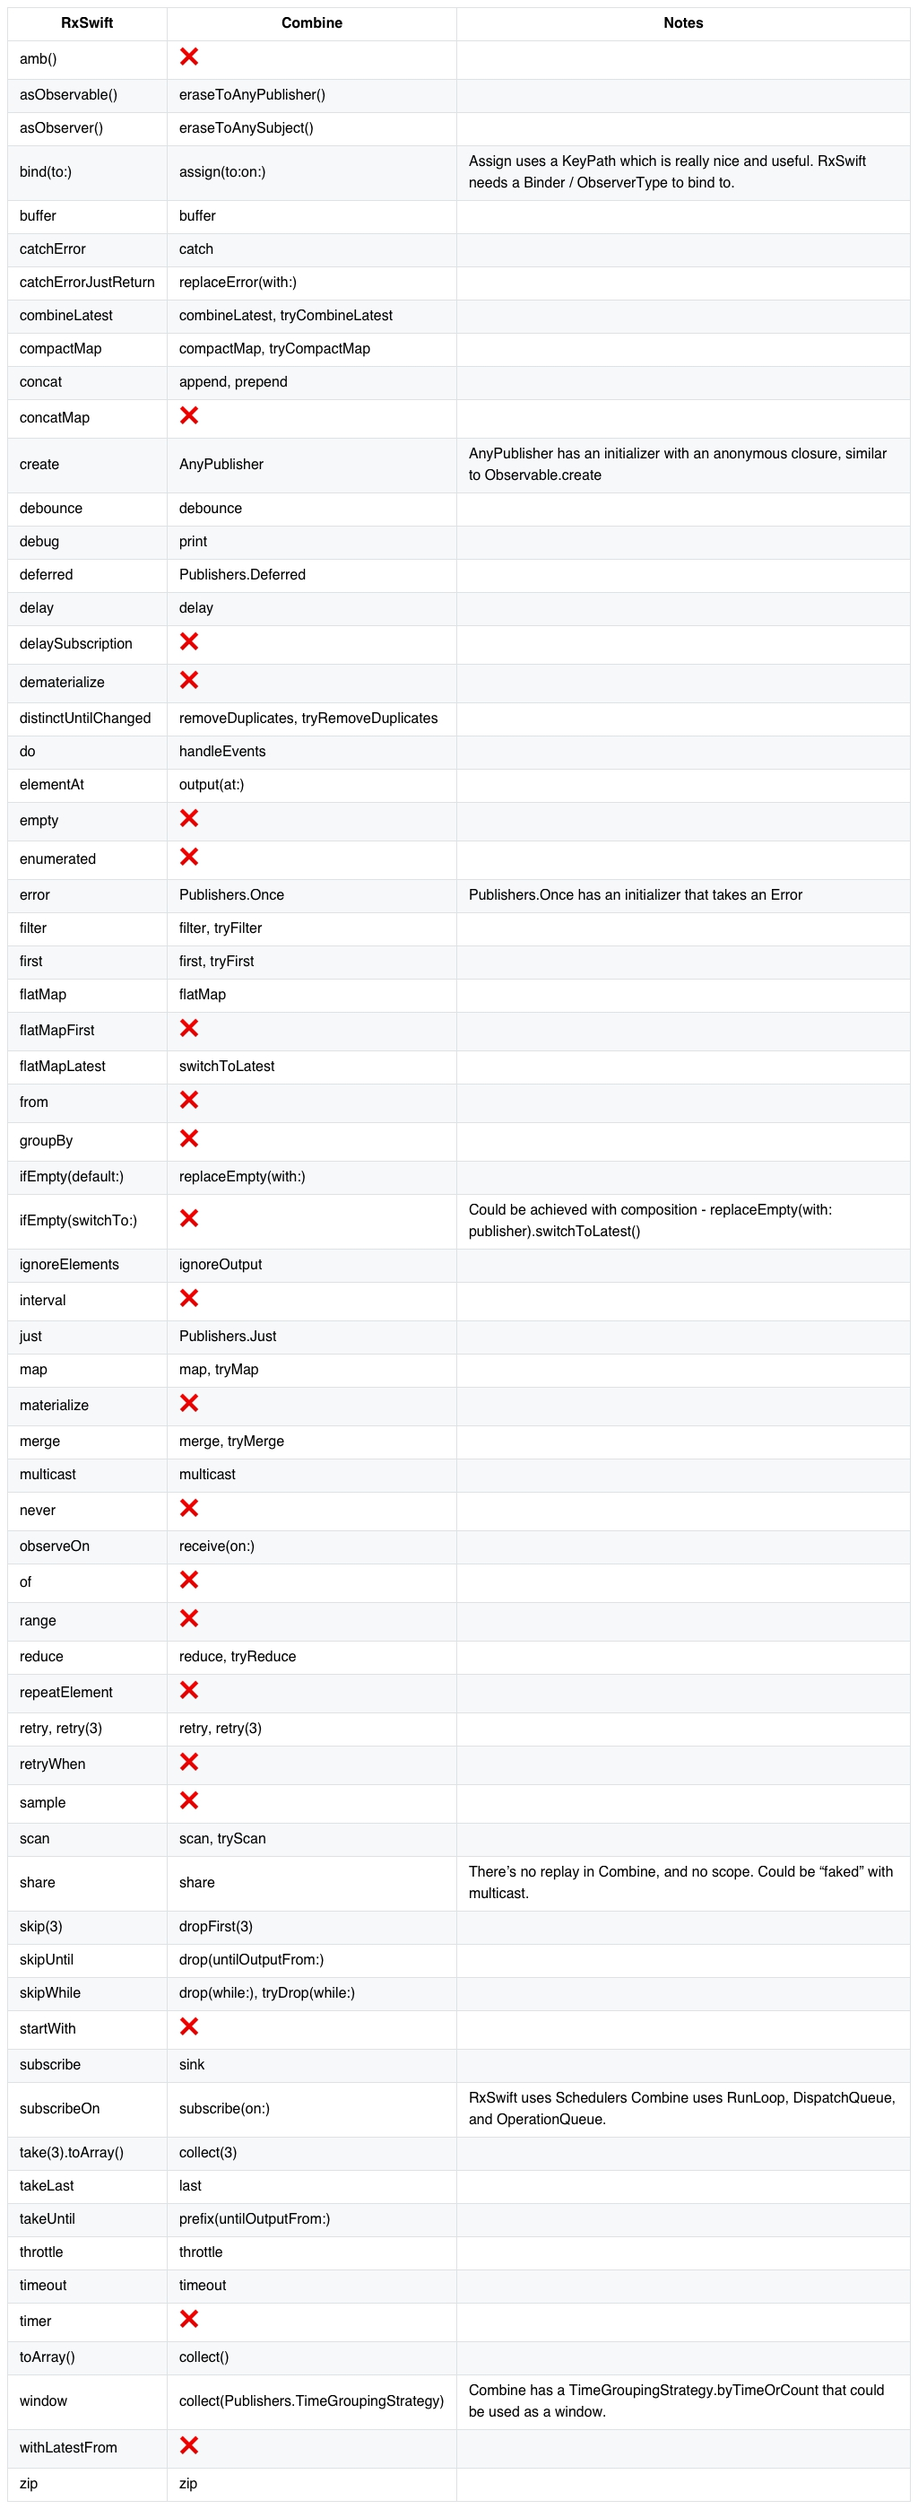
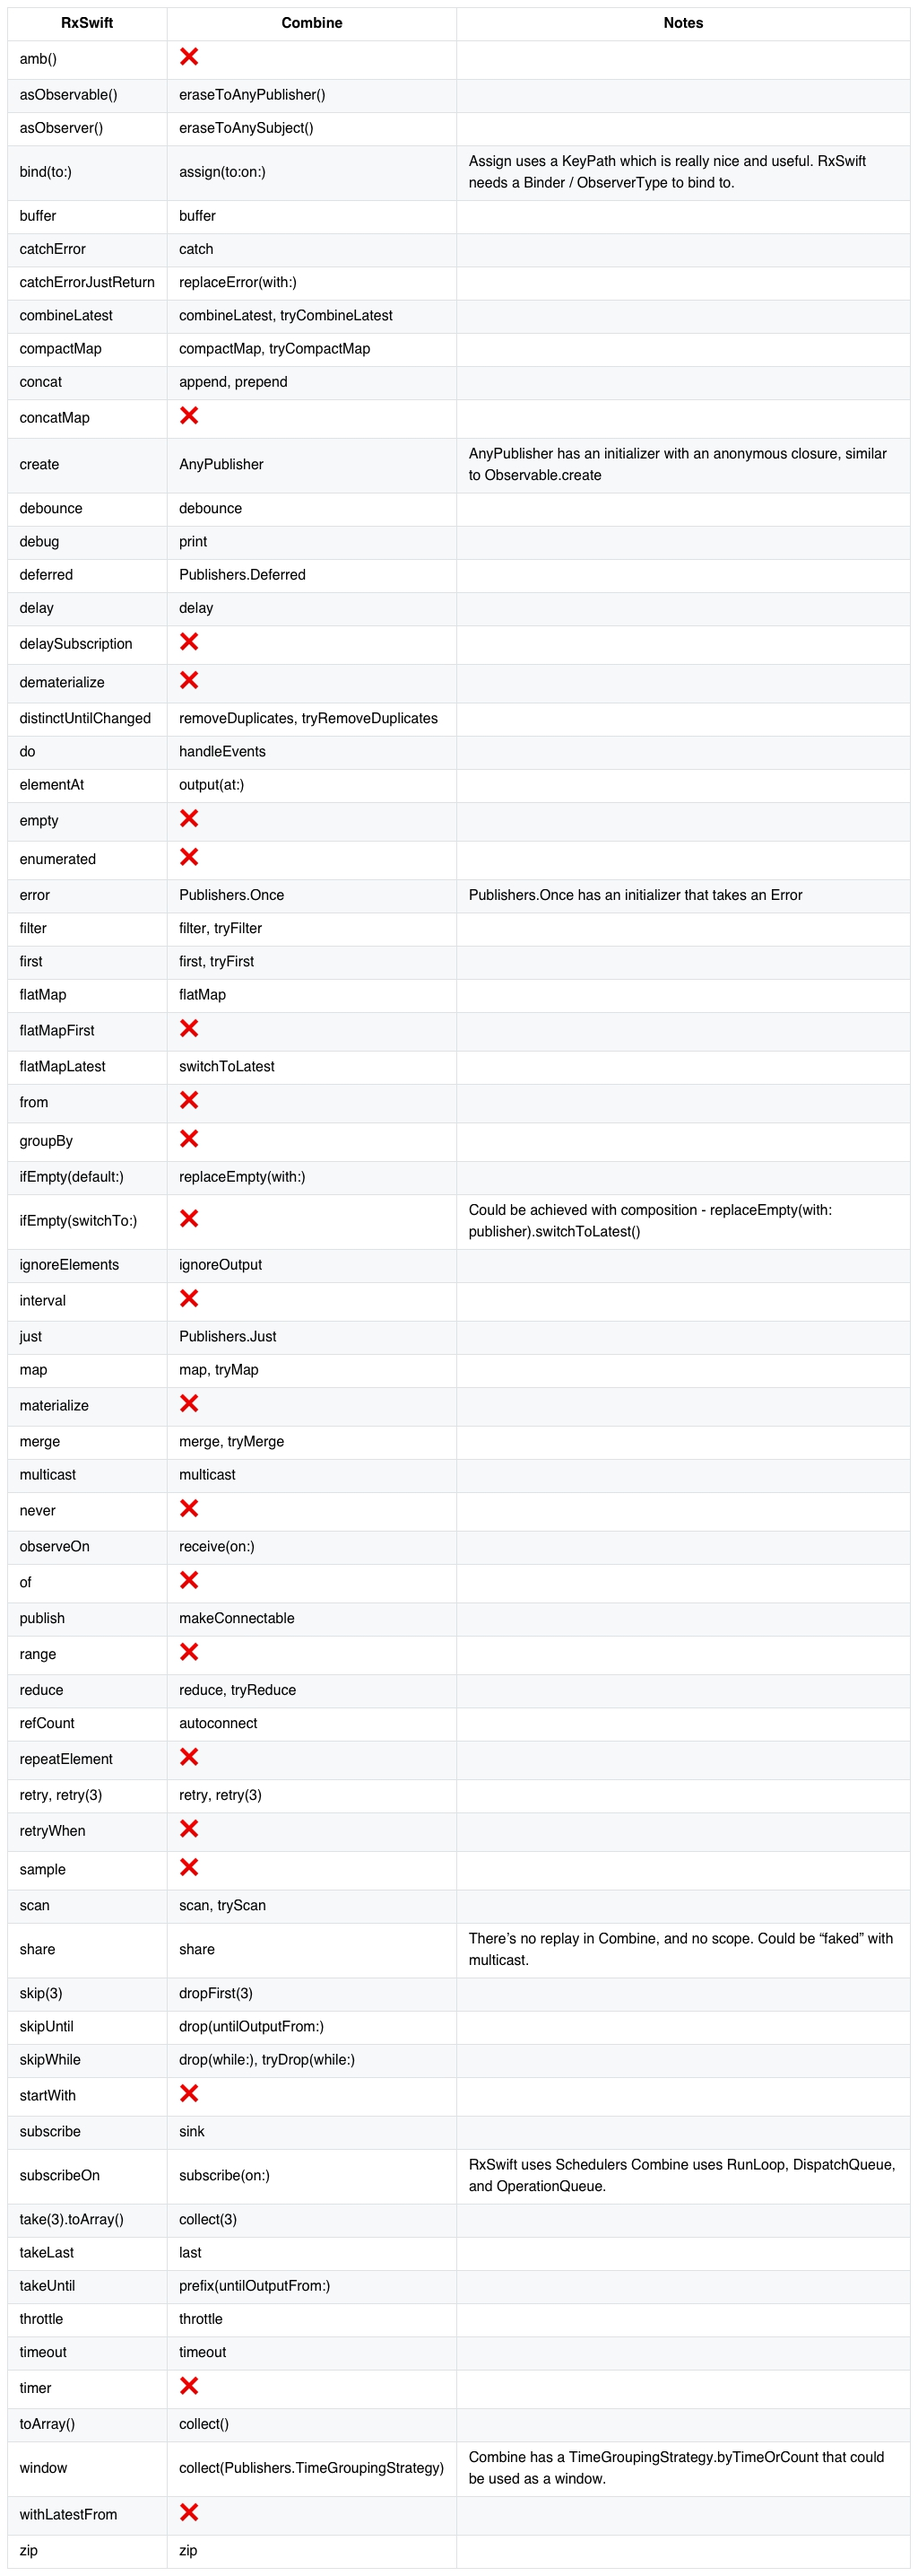
Add publish,makeConnectable and refCount,autoconnect

diff --git a/README.md b/README.md
@@ -90,8 +90,10 @@ It's based on the following blog post: [https://medium.com/gett-engineering/rxsw
 | never                | Publishers.Empty(completeImmediately: false) |                                                                                                          |
 | observeOn            | receive(on:)                             |                                                                                                          |
 | of                   | ❌                                        |                                                                                                          |
+| publish              | makeConnectable                          |                                                                                                          |
 | range                | ❌                                        |                                                                                                          |
 | reduce               | reduce, tryReduce                        |                                                                                                          |
+| refCount             | autoconnect                              |                                                                                                          |
 | repeatElement        | ❌                                        |                                                                                                          |
 | retry, retry(3)      | retry, retry(3)                          |                                                                                                          |
 | retryWhen            | ❌                                        |                                                                                                          |
